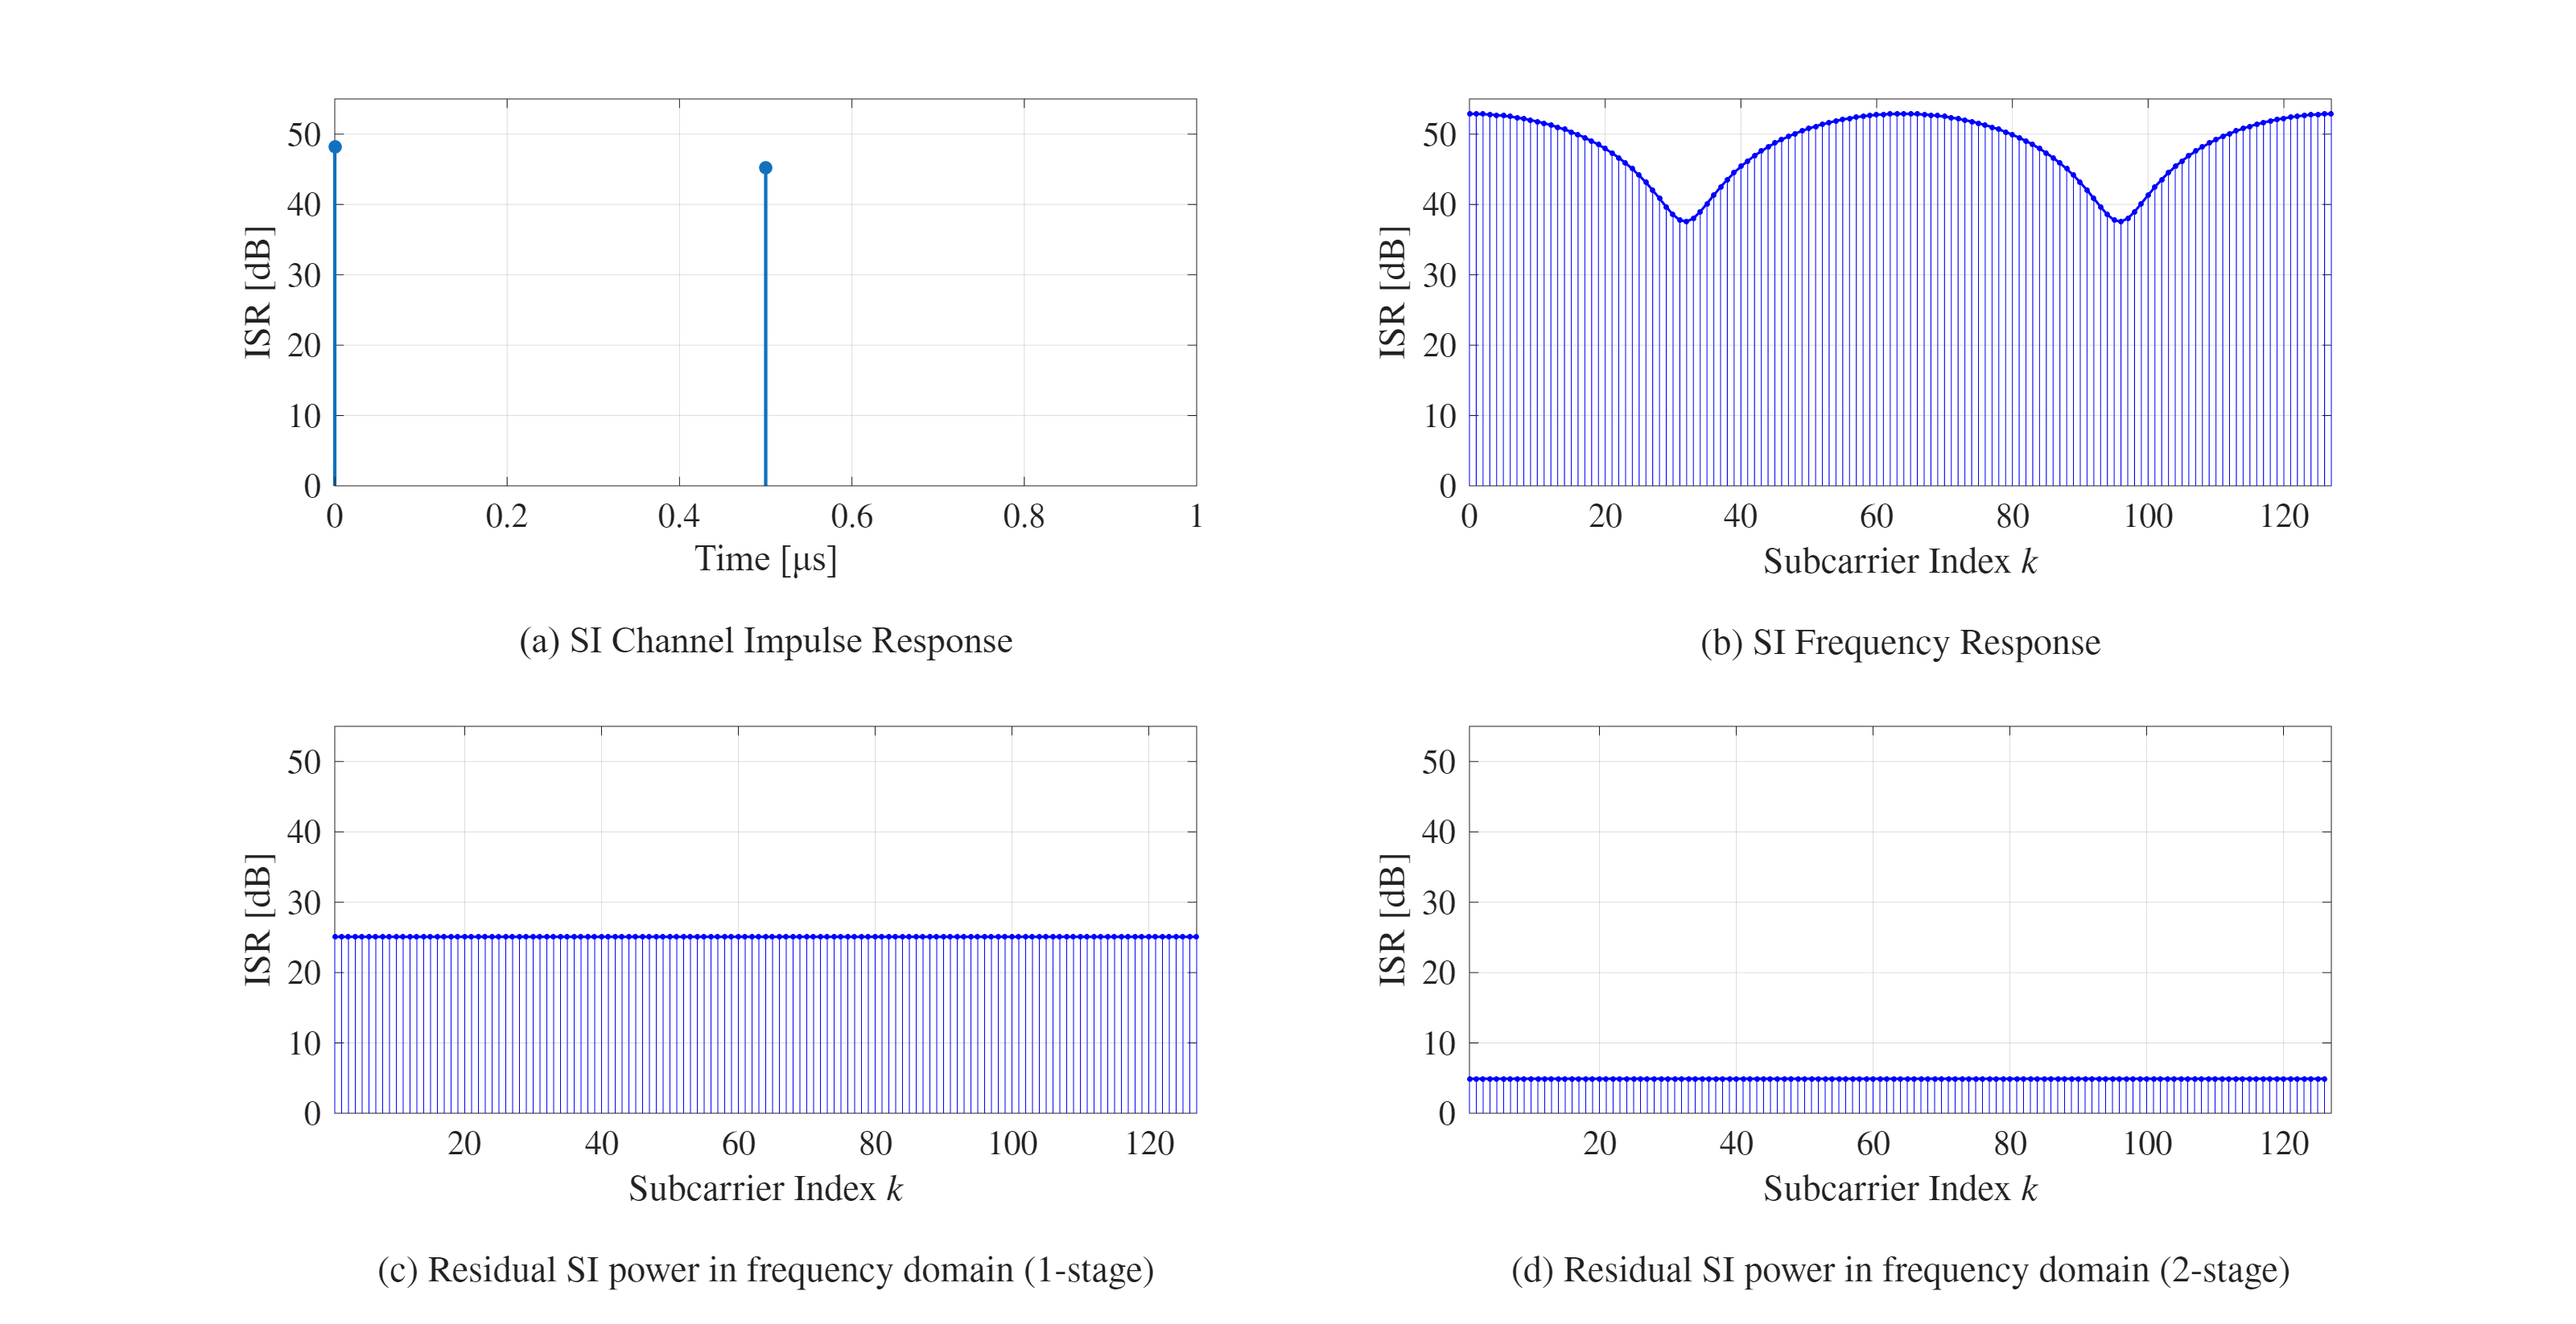
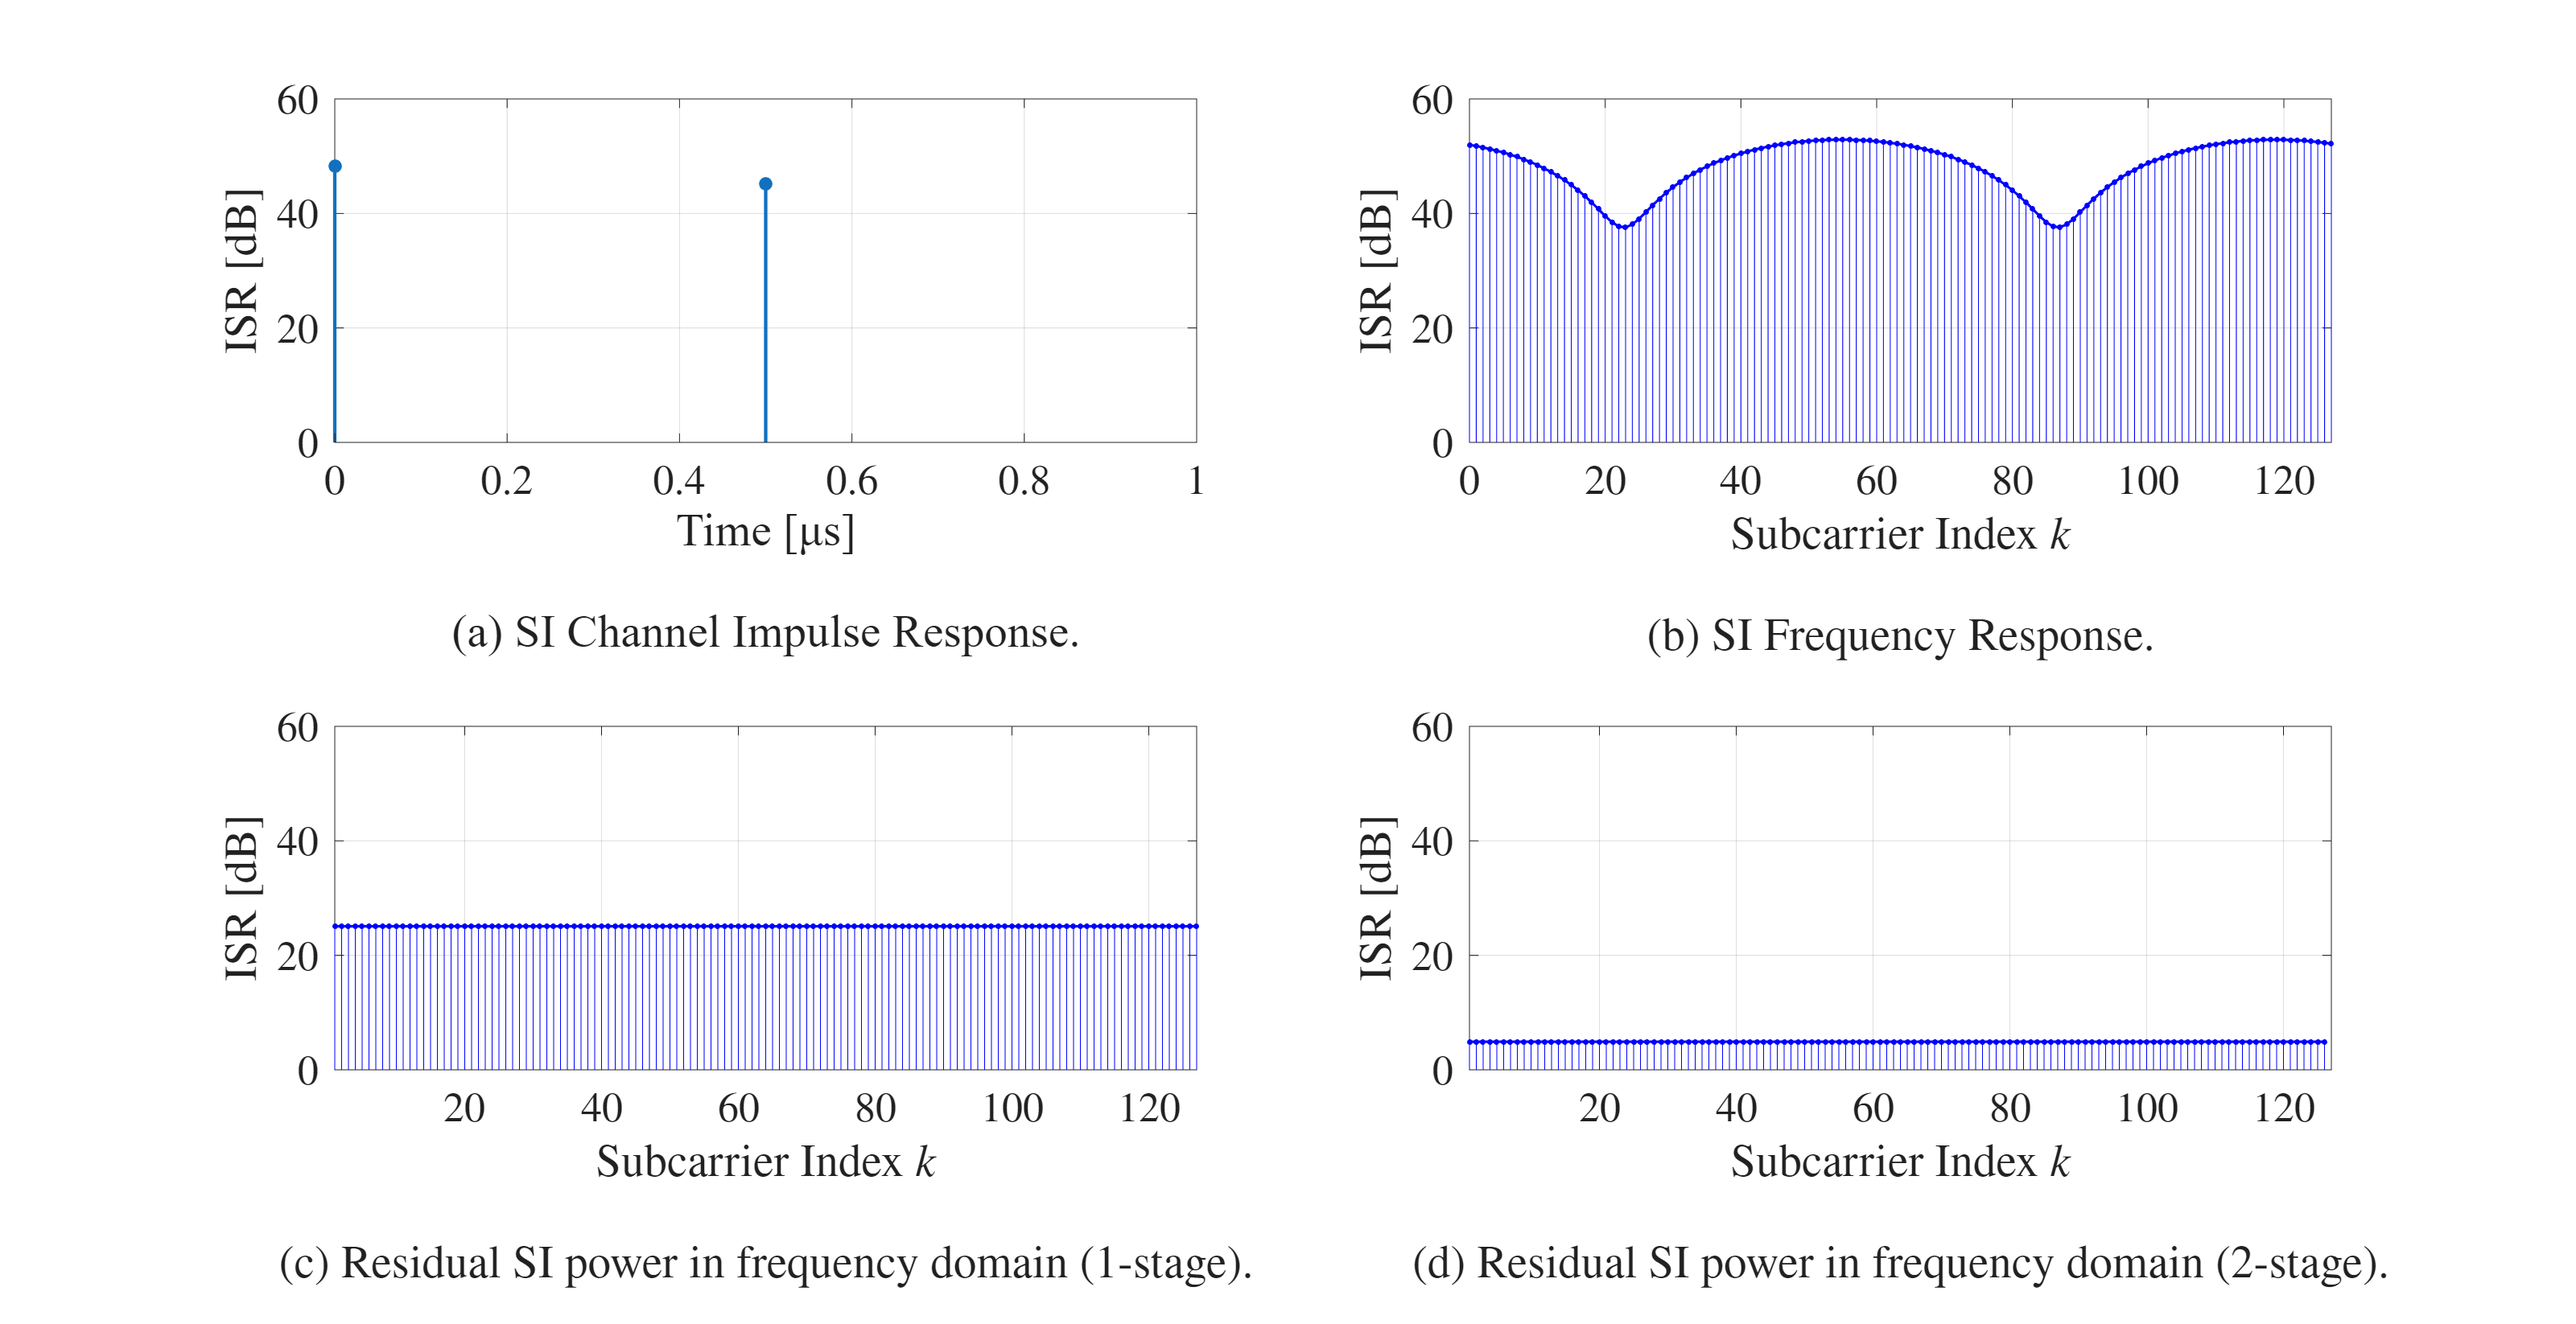
add

diff --git a/CIR&FR/CulcCirFr.m b/CIR&FR/CulcCirFr.m
@@ -96,56 +96,56 @@ stem(time_axis_us(valid_idx), 20*log10(amp_profile(valid_idx)), ...
     'filled', 'LineWidth', 2, 'MarkerSize', 6);
 % ※MATLABのlatexインタープリタでは $\mu$ はデフォルトで斜体になります。
 % もし完全に直立の「μ」にしたい場合は、ここだけ 'Interpreter', 'tex' に変更し、'Time [\mu s]' としてください。
-xlabel({'Time [μs]', '', '(a) SI Channel Impulse Response'}, ...
-    'FontName', 'Times New Roman', 'Interpreter', 'tex', 'FontSize', 20);
+xlabel({'Time [μs]', '', '(a) SI Channel Impulse Response.'}, ...
+    'FontName', 'Times New Roman', 'Interpreter', 'tex', 'FontSize', 25);
 ylabel('ISR [dB]', ...
-    'FontName', 'Times New Roman', 'Interpreter', 'latex', 'FontSize', 20);
-ylim([0 55]); 
+    'FontName', 'Times New Roman', 'Interpreter', 'latex', 'FontSize', 25);
+ylim([0 60]); 
 xlim([0 1.0]); 
 grid on;
-set(gca, 'TickLabelInterpreter', 'latex', 'FontName', 'Times New Roman', 'FontSize', 20);
+set(gca, 'TickLabelInterpreter', 'latex', 'FontName', 'Times New Roman', 'FontSize', 25);
 
 % --- Plot 2: FR (Frequency Response) ---
 subplot(2,2,2);
 plot(0:fft_ptA-1, 20*log10(abs(Xi_vec_AA)), 'b-', 'LineWidth', 1.5);
 hold on;
 stem(0:fft_ptA-1, 20*log10(abs(Xi_vec_AA)), 'b.', 'MarkerSize', 10);
-xlabel({'Subcarrier Index $k$', '', '(b) SI Frequency Response'}, ...
-    'FontName', 'Times New Roman', 'Interpreter', 'latex', 'FontSize', 20);
+xlabel({'Subcarrier Index $k$', '', '(b) SI Frequency Response.'}, ...
+    'FontName', 'Times New Roman', 'Interpreter', 'latex', 'FontSize', 25);
 ylabel('ISR [dB]', ...
-    'FontName', 'Times New Roman', 'Interpreter', 'latex', 'FontSize', 20);
+    'FontName', 'Times New Roman', 'Interpreter', 'latex', 'FontSize', 25);
 xlim([0 127]); 
-ylim([0 55]);
+ylim([0 60]);
 grid on;
-set(gca, 'TickLabelInterpreter', 'latex', 'FontName', 'Times New Roman', 'FontSize', 20);
+set(gca, 'TickLabelInterpreter', 'latex', 'FontName', 'Times New Roman', 'FontSize', 25);
 
 % --- Plot 3: 1-stage Residual SI ---
 subplot(2,2,3);
 plot(1:SIM.over*SIM.ndata-1, 20*log10(abs(ResidualSI(1:end))), 'b-', 'LineWidth', 1.5);
 hold on;
 stem(1:SIM.over*SIM.ndata-1, 20*log10(abs(ResidualSI(1:end))), 'b.', 'MarkerSize', 10);
-xlabel({'Subcarrier Index $k$', '', '(c) Residual SI power in frequency domain (1-stage)'}, ...
-    'FontName', 'Times New Roman', 'Interpreter', 'latex', 'FontSize', 20);
+xlabel({'Subcarrier Index $k$', '', '(c) Residual SI power in frequency domain (1-stage).'}, ...
+    'FontName', 'Times New Roman', 'Interpreter', 'latex', 'FontSize', 25);
 ylabel('ISR [dB]', ...
-    'FontName', 'Times New Roman', 'Interpreter', 'latex', 'FontSize', 20);
+    'FontName', 'Times New Roman', 'Interpreter', 'latex', 'FontSize', 25);
 xlim([1 127]); 
-ylim([0 55]);
+ylim([0 60]);
 grid on;
-set(gca, 'TickLabelInterpreter', 'latex', 'FontName', 'Times New Roman', 'FontSize', 20);
+set(gca, 'TickLabelInterpreter', 'latex', 'FontName', 'Times New Roman', 'FontSize', 25);
 
 % --- Plot 4: 2-stage Residual SI ---
 subplot(2,2,4);
 plot(1:SIM.over*SIM.ndata-2, 20*log10(abs(ResidualSI2(1:end))), 'b-', 'LineWidth', 1.5);
 hold on;
 stem(1:SIM.over*SIM.ndata-2, 20*log10(abs(ResidualSI2(1:end))), 'b.', 'MarkerSize', 10);
-xlabel({'Subcarrier Index $k$', '', '(d) Residual SI power in frequency domain (2-stage)'}, ...
-    'FontName', 'Times New Roman', 'Interpreter', 'latex', 'FontSize', 20);
+xlabel({'Subcarrier Index $k$', '', '(d) Residual SI power in frequency domain (2-stage).'}, ...
+    'FontName', 'Times New Roman', 'Interpreter', 'latex', 'FontSize', 25);
 ylabel('ISR [dB]', ...
-    'FontName', 'Times New Roman', 'Interpreter', 'latex', 'FontSize', 20);
+    'FontName', 'Times New Roman', 'Interpreter', 'latex', 'FontSize', 25);
 xlim([1 127]); 
-ylim([0 55]);
+ylim([0 60]);
 grid on;
-set(gca, 'TickLabelInterpreter', 'latex', 'FontName', 'Times New Roman', 'FontSize', 20);
+set(gca, 'TickLabelInterpreter', 'latex', 'FontName', 'Times New Roman', 'FontSize', 25);
 
 % 解析結果の表示
 mean_si = mean(abs(RX_bA).^2);
